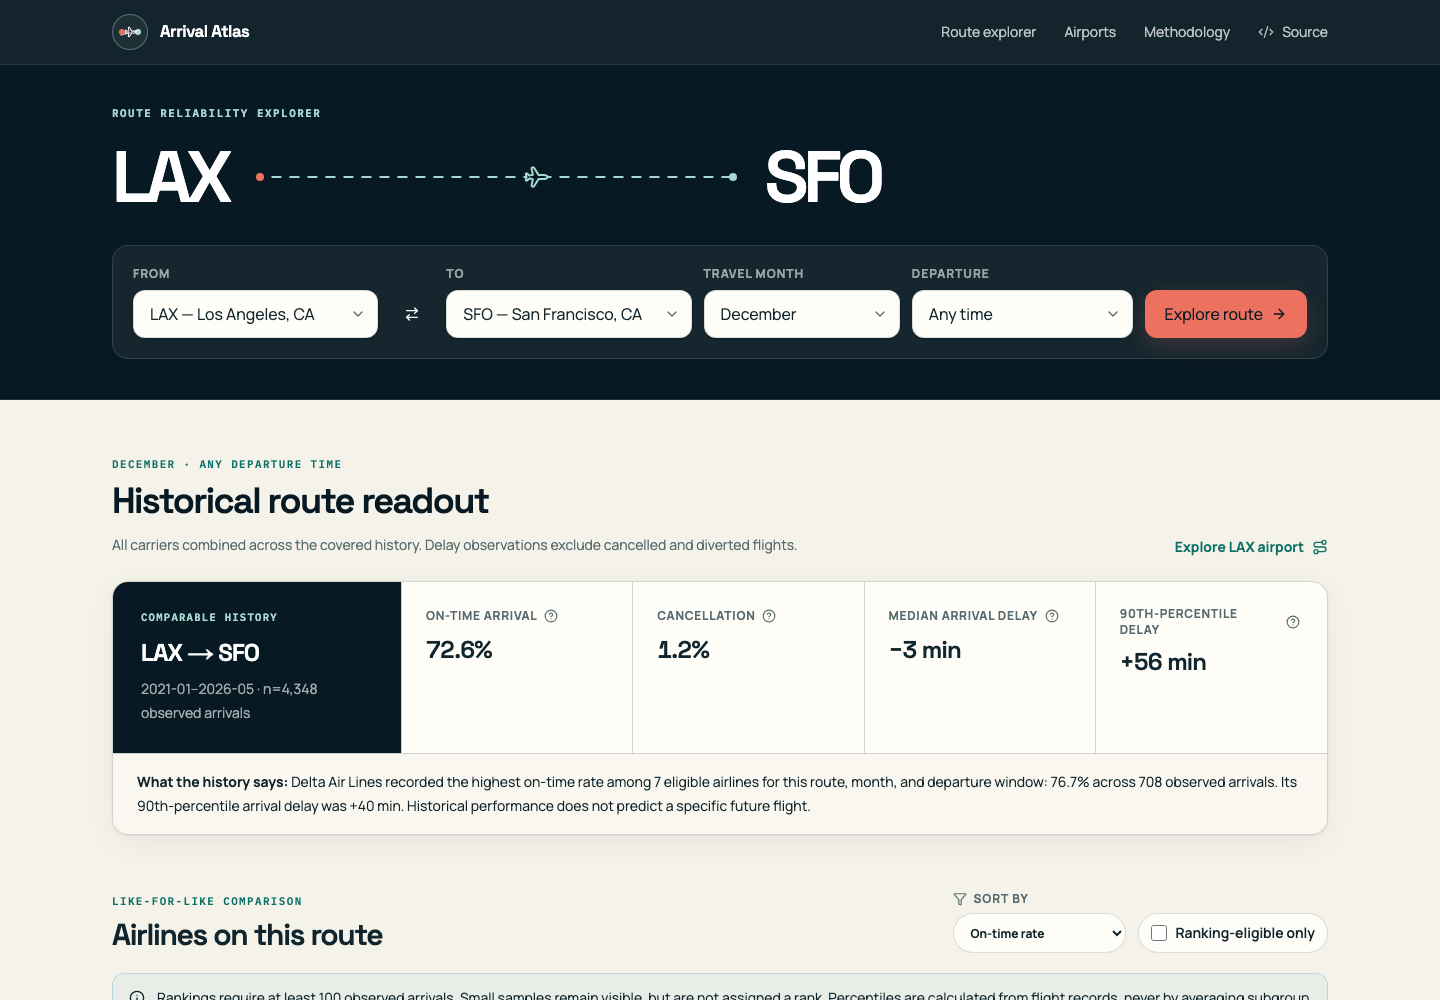
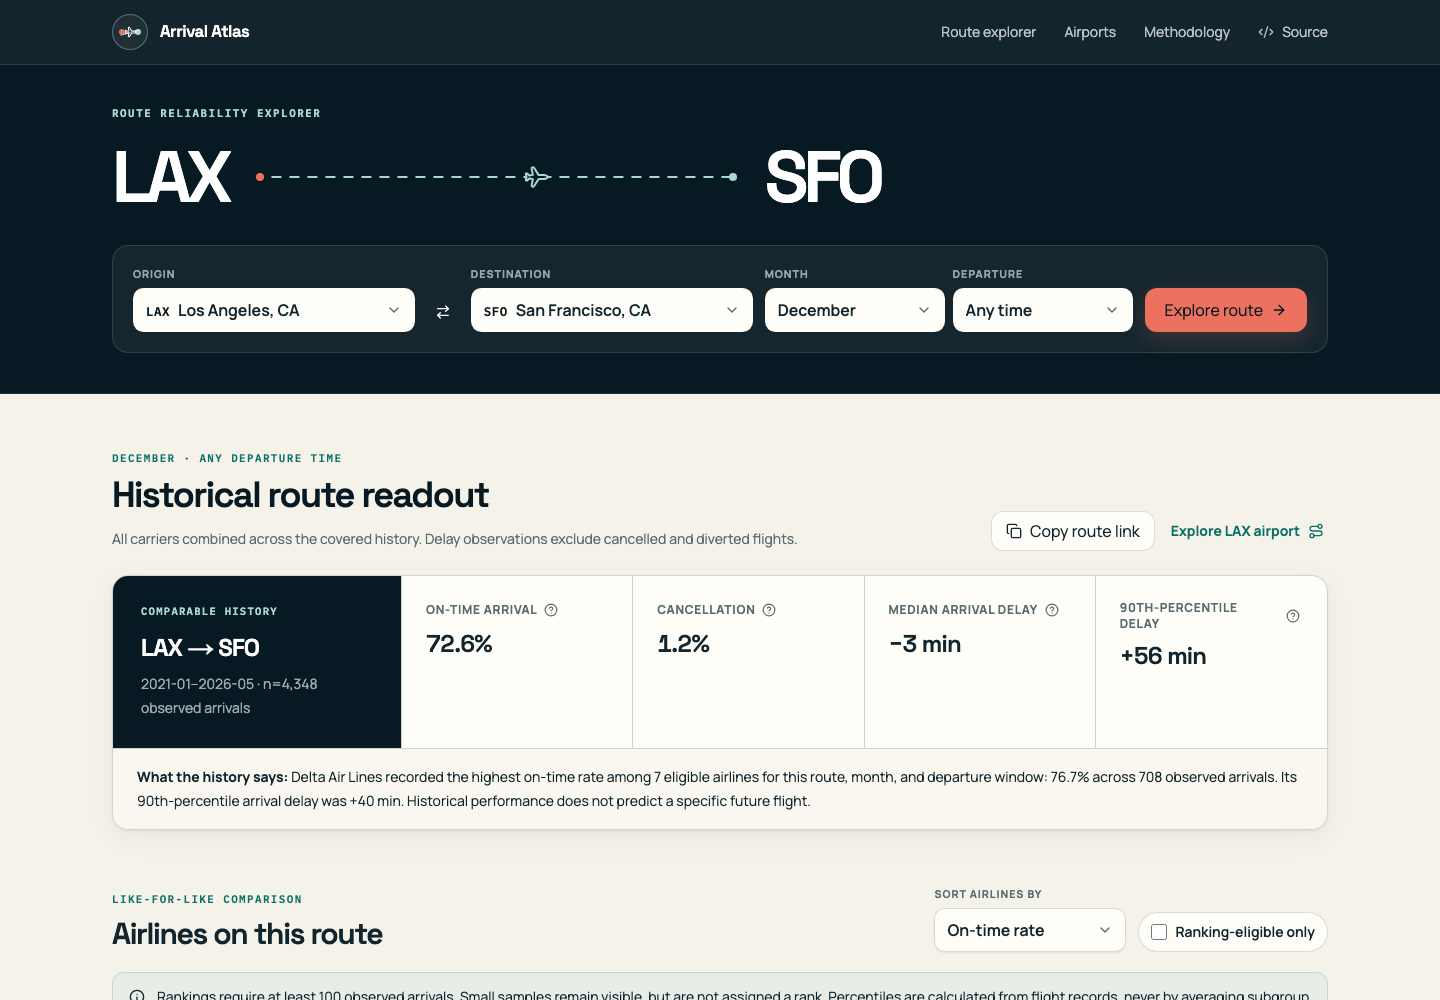
docs: refresh repository presentation

diff --git a/README.md b/README.md
@@ -1,6 +1,10 @@
 # Arrival Atlas
 
-[Live application](https://arrival-atlas.vercel.app) · [Public dataset](https://github.com/heybadrinath/arrival-atlas-data) · [Methodology](https://arrival-atlas.vercel.app/methodology)
+[![CI](https://github.com/heybadrinath/arrival-atlas/actions/workflows/ci.yml/badge.svg?branch=main)](https://github.com/heybadrinath/arrival-atlas/actions/workflows/ci.yml)
+[![Live application](https://img.shields.io/badge/live-arrival--atlas.vercel.app-ef6f61)](https://arrival-atlas.vercel.app)
+[![MIT License](https://img.shields.io/badge/license-MIT-0f766e)](LICENSE)
+
+[Explore the live product](https://arrival-atlas.vercel.app) · [Browse the public dataset](https://github.com/heybadrinath/arrival-atlas-data) · [Read the methodology](https://arrival-atlas.vercel.app/methodology) · [Contribute](CONTRIBUTING.md)
 
 Arrival Atlas is a public, historical flight-reliability explorer for US domestic routes. It
 helps a traveler compare the airlines that actually served a route in the same calendar month
@@ -23,7 +27,26 @@ The product answers questions such as:
 It does not forecast a specific flight. Current weather, schedules, staffing, and operations can
 make a future trip differ materially from the historical record.
 
-## Production snapshot
+## What you can explore
+
+- Search airports by code or city with keyboard-friendly selectors, swap route endpoints, and
+  filter by calendar month and scheduled departure time
+- Reopen recent routes and copy a stable link to any route comparison
+- Compare scheduled flights, observation counts, on-time and cancellation rates, median, P75,
+  P90, and severe-delay rates across airlines that actually served the route
+- Review a deterministic plain-language summary and the same month versus the prior year
+- Inspect monthly reliability, delay distribution, time-band, delay-cause, volume, and historical
+  carrier-coverage views
+- Explore airport trends, active routes, cancellations, severe delays, and route drill-downs
+- Audit definitions, denominators, sample rules, source freshness, quality checks, and limitations
+- Use the responsive interface with a keyboard, screen reader, or reduced-motion preference
+
+<p align="center">
+  <img src="docs/images/arrival-atlas-route.png" width="72%" alt="Arrival Atlas route comparison with summary metrics and airline table" />
+  <img src="docs/images/arrival-atlas-mobile.png" width="24%" alt="Arrival Atlas mobile route search" />
+</p>
+
+## Data at a glance
 
 The current verified snapshot uses 65 official monthly BTS partitions.
 
@@ -42,24 +65,6 @@ The current verified snapshot uses 65 official monthly BTS partitions.
 Source rows and cleaned rows reconcile exactly in this snapshot; no duplicate stable flight keys
 were found. The pipeline flagged 24 impossible scheduled-duration values for audit rather than
 silently rewriting source delay fields.
-
-## Product experience
-
-- Route search by origin, destination, calendar month, and scheduled local departure band
-- Like-for-like airline table with scheduled flights, observation counts, on-time and
-  cancellation rates, median, P75, P90, and severe-delay rates
-- Deterministic written summary based only on calculated, sample-eligible metrics
-- Same-month current-versus-prior-year comparison
-- Monthly reliability, delay distribution, time-band, delay-cause, volume, and carrier-coverage
-  views
-- Airport trends, active routes, cancellation and severe-delay rates, time bands, and route
-  drill-down
-- Visible definitions, source freshness, inclusion rules, quality checks, and limitations
-- Loading, no-data, invalid-filter, small-sample, and failed-data states
-- Responsive keyboard-friendly interface, accessible SVG charts, tooltips, and reduced-motion
-  support
-
-![Arrival Atlas route comparison](docs/images/arrival-atlas-route.png)
 
 ## Architecture
 
@@ -178,6 +183,16 @@ small-sample, invalid-query, and network-error states; and desktop/mobile overfl
 `verify:production` targets `https://arrival-atlas.vercel.app` by default; set `LIVE_SITE_URL` to
 verify another deployment.
 
+## Contributing
+
+Focused contributions are welcome, especially fixes or improvements related to accessibility,
+documentation, data quality, metric correctness, tests, and the traveler-facing experience.
+
+Start with the [contribution guide](CONTRIBUTING.md). For a material metric, schema, or
+architecture change, [open an issue](https://github.com/heybadrinath/arrival-atlas/issues/new)
+before investing in an implementation. Pull requests run the frontend, pipeline, build, and
+browser suites in GitHub Actions.
+
 ## Automated monthly refresh
 
 `.github/workflows/data-refresh.yml` runs on the fifth day of each month and can also be dispatched
@@ -225,9 +240,8 @@ docs/                     architecture, metrics, pipeline, and deployment guides
 .github/workflows/        continuous integration and monthly data refresh
 ```
 
-## License and contributing
+## License and security
 
 Application and pipeline source are released under the [MIT License](LICENSE). The independently
-processed BTS data is marked US Public Domain with attribution and provenance retained. See
-[CONTRIBUTING.md](CONTRIBUTING.md) for focused change guidelines and [SECURITY.md](SECURITY.md) for
-responsible vulnerability reporting.
+processed BTS data is marked US Public Domain with attribution and provenance retained. Please
+follow the [security policy](SECURITY.md) when reporting a suspected vulnerability.

diff --git a/CONTRIBUTING.md b/CONTRIBUTING.md
@@ -3,14 +3,26 @@
 Arrival Atlas welcomes focused fixes to metric correctness, data quality, accessibility,
 documentation, and the traveler-facing experience.
 
+## Ways to help
+
+- Report a reproducible bug or confusing product flow
+- Improve keyboard, screen-reader, mobile, or reduced-motion behavior
+- Clarify documentation, methodology, metric definitions, or limitations
+- Add a focused test for an uncovered edge case
+- Improve pipeline validation without changing published metric meaning
+
 ## Before opening a change
 
-1. Open an issue for a material metric, schema, or architecture change.
+1. Search [existing issues](https://github.com/heybadrinath/arrival-atlas/issues) before opening a
+   new one. Open an issue first for a material metric, schema, or architecture change.
 2. Keep source-of-truth boundaries intact: raw and cleaned flight records are local pipeline
    artifacts; only application-ready aggregates are published.
 3. Do not add predictive claims, arbitrary composite scores, or generative features.
 4. Do not commit credentials, `.env.local`, raw BTS ZIPs, cleaned flight rows, build output,
    caches, or downloaded test artifacts.
+
+For web-only work, follow the [local setup](README.md#local-web-setup). Pipeline changes also need
+Python 3.12 and `uv`.
 
 ## Local checks
 
@@ -38,5 +50,9 @@ uv run arrival-data validate --through 2026-05
 
 ## Pull requests
 
+Fork the repository, create a focused branch, and keep unrelated changes out of the pull request.
 Explain the user problem, scope, verification performed, and any changed limitation. Include a
 screenshot for visible UI work and exact failing/passing cases for data-quality changes.
+
+Small, reviewable changes are easier to validate and merge. A maintainer may ask for a design or
+metric discussion before accepting changes that alter the product's interpretation of the data.

diff --git a/.github/PULL_REQUEST_TEMPLATE.md b/.github/PULL_REQUEST_TEMPLATE.md
@@ -1,0 +1,17 @@
+## What changed
+
+<!-- Summarize the focused change. -->
+
+## Why
+
+<!-- Explain the user, data-quality, or maintenance problem. -->
+
+## Verification
+
+- [ ] I ran the checks relevant to this change.
+- [ ] I added or updated tests when behavior changed.
+- [ ] I included a screenshot for a visible interface change.
+
+## Notes
+
+<!-- Call out changed assumptions, metrics, data coverage, or limitations. Remove if not needed. -->